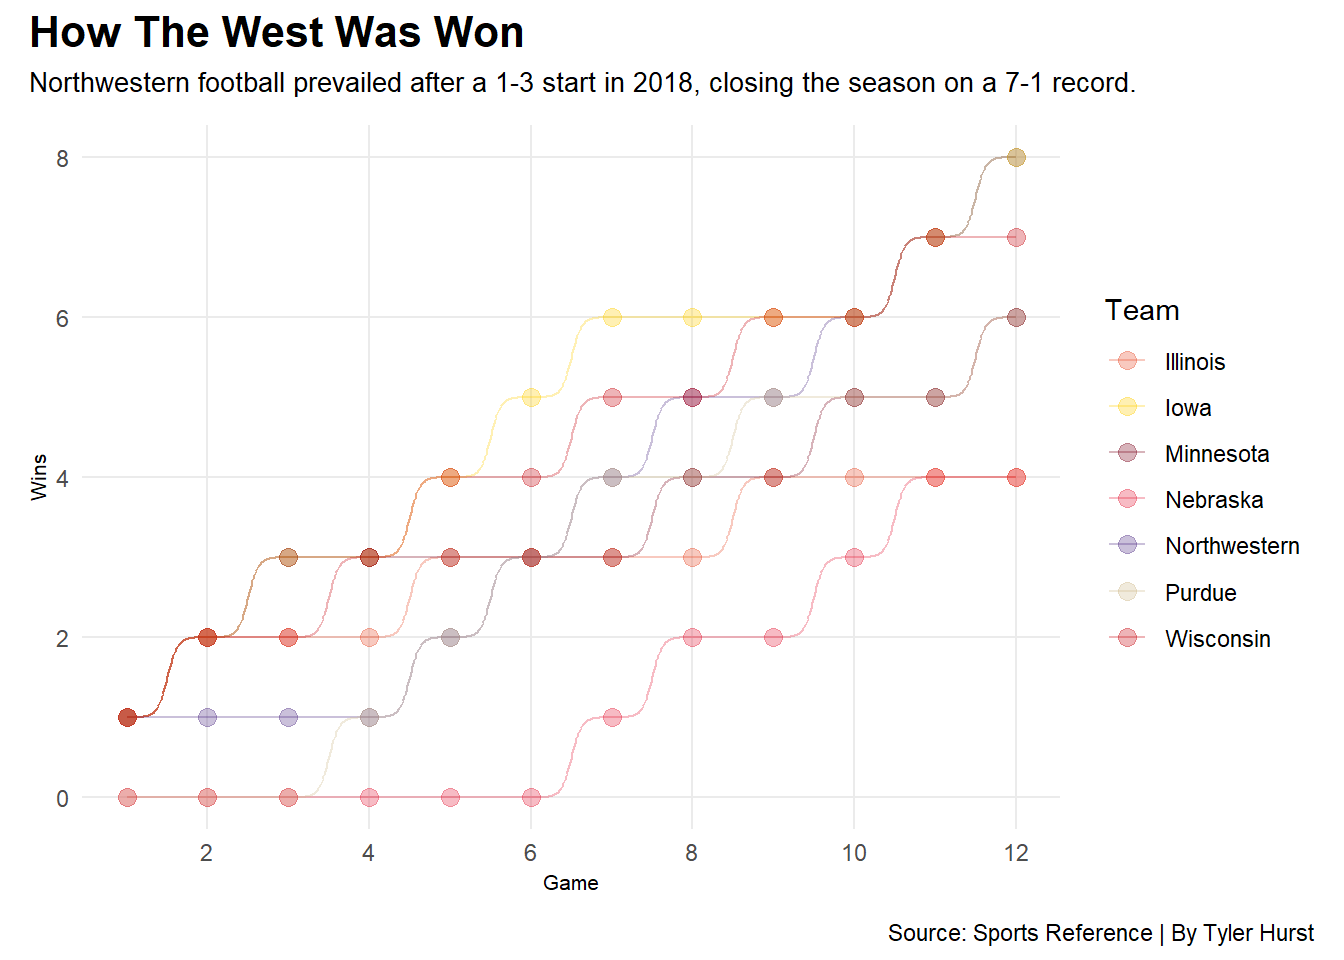
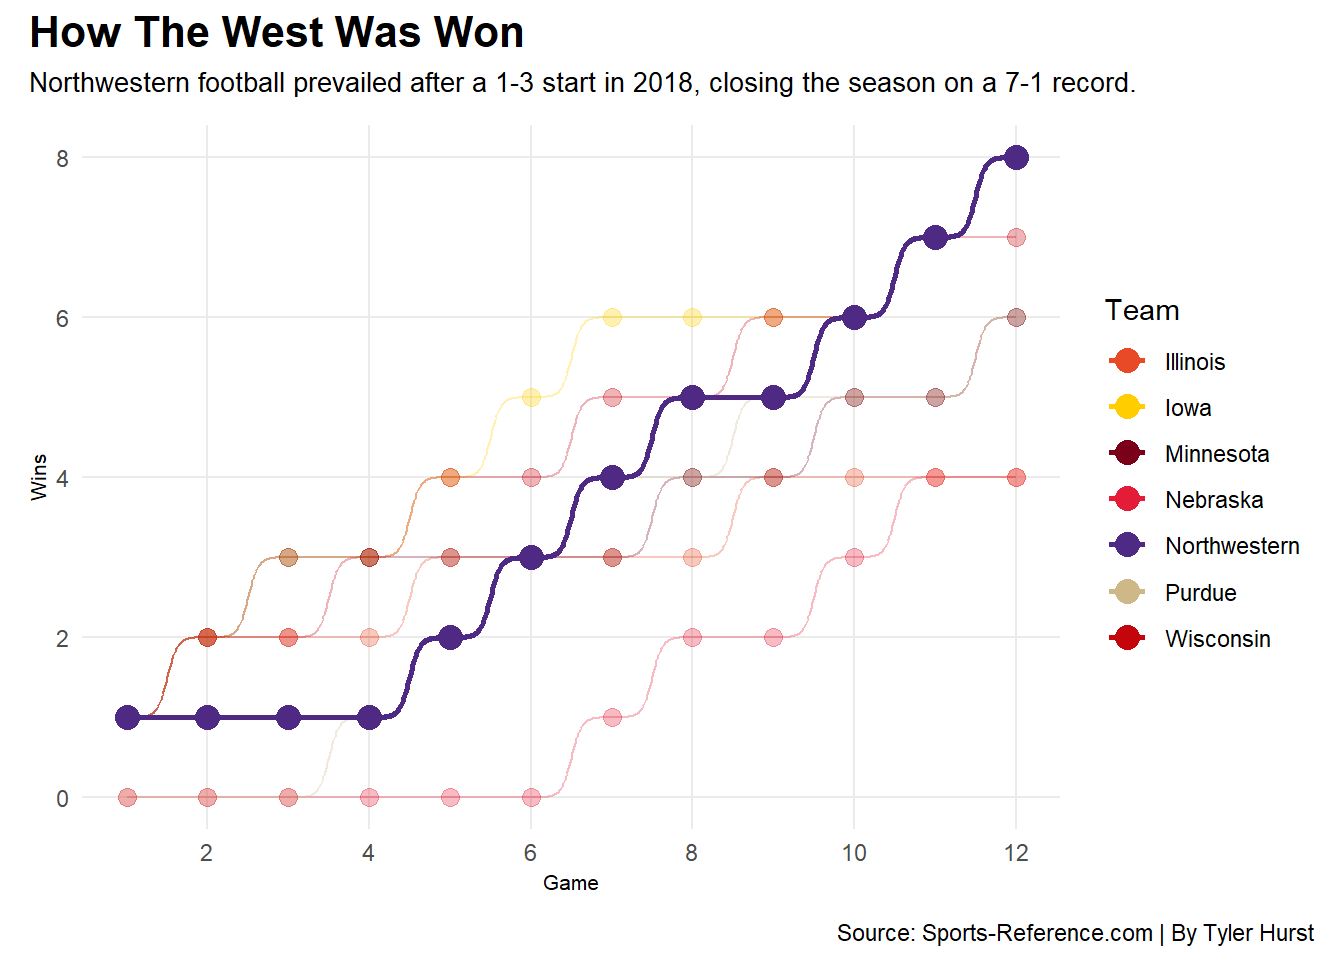
Project one draft two

diff --git a/posts/how-northwestern-won-the-2018-big-ten-west/index.html b/posts/how-northwestern-won-the-2018-big-ten-west/index.html
@@ -197,21 +197,23 @@ pre > code.sourceCode > span > a:first-child::before { text-decoration: underlin
 <span id="cb1-14"><a href="#cb1-14" aria-hidden="true" tabindex="-1"></a></span>
 <span id="cb1-15"><a href="#cb1-15" aria-hidden="true" tabindex="-1"></a><span class="fu">ggplot</span>() <span class="sc">+</span> </span>
 <span id="cb1-16"><a href="#cb1-16" aria-hidden="true" tabindex="-1"></a>  <span class="fu">geom_bump</span>(<span class="at">data=</span>BigTenWest18v2, <span class="fu">aes</span>(<span class="at">x=</span>Game, <span class="at">y=</span>Wins, <span class="at">color=</span>Team), <span class="at">alpha=</span>.<span class="dv">3</span>) <span class="sc">+</span></span>
-<span id="cb1-17"><a href="#cb1-17" aria-hidden="true" tabindex="-1"></a>  <span class="fu">geom_point</span>(<span class="at">data=</span>BigTenWest18v2, <span class="fu">aes</span>(<span class="at">x=</span>Game, <span class="at">y=</span>Wins, <span class="at">color=</span>Team), <span class="at">size =</span> <span class="dv">3</span>, <span class="at">alpha=</span>.<span class="dv">3</span>) <span class="sc">+</span> </span>
-<span id="cb1-18"><a href="#cb1-18" aria-hidden="true" tabindex="-1"></a> <span class="fu">scale_color_manual</span>(<span class="at">values =</span> <span class="fu">c</span>(<span class="st">"#E84A27"</span>, <span class="st">"#FFCD00"</span>, <span class="st">"#7A0019"</span>, <span class="st">"#E41C38"</span>, <span class="st">"#4E2A84"</span>, <span class="st">"#CEB888"</span>, <span class="st">"#C5050C"</span>)) <span class="sc">+</span></span>
-<span id="cb1-19"><a href="#cb1-19" aria-hidden="true" tabindex="-1"></a>  <span class="fu">scale_x_continuous</span>(<span class="at">breaks =</span> <span class="fu">c</span>(<span class="dv">2</span>,<span class="dv">4</span>,<span class="dv">6</span>,<span class="dv">8</span>,<span class="dv">10</span>,<span class="dv">12</span>)) <span class="sc">+</span></span>
-<span id="cb1-20"><a href="#cb1-20" aria-hidden="true" tabindex="-1"></a>  <span class="fu">theme_minimal</span>() <span class="sc">+</span></span>
-<span id="cb1-21"><a href="#cb1-21" aria-hidden="true" tabindex="-1"></a>  <span class="fu">plot_annotation</span>(</span>
-<span id="cb1-22"><a href="#cb1-22" aria-hidden="true" tabindex="-1"></a>    <span class="at">title =</span> <span class="st">"How The West Was Won"</span>,</span>
-<span id="cb1-23"><a href="#cb1-23" aria-hidden="true" tabindex="-1"></a>    <span class="at">subtitle =</span> <span class="st">"Northwestern football prevailed after a 1-3 start in 2018, closing the season on a 7-1 record."</span>,</span>
-<span id="cb1-24"><a href="#cb1-24" aria-hidden="true" tabindex="-1"></a>    <span class="at">caption =</span> <span class="st">"Source: Sports Reference | By Tyler Hurst"</span></span>
-<span id="cb1-25"><a href="#cb1-25" aria-hidden="true" tabindex="-1"></a>  ) <span class="sc">&amp;</span> </span>
-<span id="cb1-26"><a href="#cb1-26" aria-hidden="true" tabindex="-1"></a>  <span class="fu">theme</span>(</span>
-<span id="cb1-27"><a href="#cb1-27" aria-hidden="true" tabindex="-1"></a>    <span class="at">plot.title =</span> <span class="fu">element_text</span>(<span class="at">size =</span> <span class="dv">16</span>, <span class="at">face =</span> <span class="st">"bold"</span>),</span>
-<span id="cb1-28"><a href="#cb1-28" aria-hidden="true" tabindex="-1"></a>    <span class="at">axis.title =</span> <span class="fu">element_text</span>(<span class="at">size =</span> <span class="dv">8</span>), </span>
-<span id="cb1-29"><a href="#cb1-29" aria-hidden="true" tabindex="-1"></a>    <span class="at">plot.subtitle =</span> <span class="fu">element_text</span>(<span class="at">size=</span><span class="dv">10</span>), </span>
-<span id="cb1-30"><a href="#cb1-30" aria-hidden="true" tabindex="-1"></a>    <span class="at">panel.grid.minor =</span> <span class="fu">element_blank</span>()</span>
-<span id="cb1-31"><a href="#cb1-31" aria-hidden="true" tabindex="-1"></a>  )</span></code><button title="Copy to Clipboard" class="code-copy-button"><i class="bi"></i></button></pre></div>
+<span id="cb1-17"><a href="#cb1-17" aria-hidden="true" tabindex="-1"></a>  <span class="fu">geom_point</span>(<span class="at">data=</span>BigTenWest18v2, <span class="fu">aes</span>(<span class="at">x=</span>Game, <span class="at">y=</span>Wins, <span class="at">color=</span>Team), <span class="at">size =</span> <span class="dv">3</span>, <span class="at">alpha=</span>.<span class="dv">3</span>) <span class="sc">+</span></span>
+<span id="cb1-18"><a href="#cb1-18" aria-hidden="true" tabindex="-1"></a>  <span class="fu">geom_point</span>(<span class="at">data=</span>northwestern_data, <span class="fu">aes</span>(<span class="at">x=</span>Game, <span class="at">y=</span>Wins, <span class="at">color=</span>Team), <span class="at">size =</span> <span class="dv">4</span>) <span class="sc">+</span></span>
+<span id="cb1-19"><a href="#cb1-19" aria-hidden="true" tabindex="-1"></a>  <span class="fu">geom_bump</span>(<span class="at">data=</span>northwestern_data, <span class="fu">aes</span>(<span class="at">x=</span>Game, <span class="at">y=</span>Wins, <span class="at">color=</span>Team), <span class="at">size =</span> <span class="dv">1</span>) <span class="sc">+</span></span>
+<span id="cb1-20"><a href="#cb1-20" aria-hidden="true" tabindex="-1"></a> <span class="fu">scale_color_manual</span>(<span class="at">values =</span> <span class="fu">c</span>(<span class="st">"#E84A27"</span>, <span class="st">"#FFCD00"</span>, <span class="st">"#7A0019"</span>, <span class="st">"#E41C38"</span>, <span class="st">"#4E2A84"</span>, <span class="st">"#CEB888"</span>, <span class="st">"#C5050C"</span>)) <span class="sc">+</span></span>
+<span id="cb1-21"><a href="#cb1-21" aria-hidden="true" tabindex="-1"></a>  <span class="fu">scale_x_continuous</span>(<span class="at">breaks =</span> <span class="fu">c</span>(<span class="dv">2</span>,<span class="dv">4</span>,<span class="dv">6</span>,<span class="dv">8</span>,<span class="dv">10</span>,<span class="dv">12</span>)) <span class="sc">+</span></span>
+<span id="cb1-22"><a href="#cb1-22" aria-hidden="true" tabindex="-1"></a>  <span class="fu">theme_minimal</span>() <span class="sc">+</span></span>
+<span id="cb1-23"><a href="#cb1-23" aria-hidden="true" tabindex="-1"></a>  <span class="fu">plot_annotation</span>(</span>
+<span id="cb1-24"><a href="#cb1-24" aria-hidden="true" tabindex="-1"></a>    <span class="at">title =</span> <span class="st">"How The West Was Won"</span>,</span>
+<span id="cb1-25"><a href="#cb1-25" aria-hidden="true" tabindex="-1"></a>    <span class="at">subtitle =</span> <span class="st">"Northwestern football prevailed after a 1-3 start in 2018, closing the season on a 7-1 record."</span>,</span>
+<span id="cb1-26"><a href="#cb1-26" aria-hidden="true" tabindex="-1"></a>    <span class="at">caption =</span> <span class="st">"Source: Sports-Reference.com | By Tyler Hurst"</span></span>
+<span id="cb1-27"><a href="#cb1-27" aria-hidden="true" tabindex="-1"></a>  ) <span class="sc">&amp;</span> </span>
+<span id="cb1-28"><a href="#cb1-28" aria-hidden="true" tabindex="-1"></a>  <span class="fu">theme</span>(</span>
+<span id="cb1-29"><a href="#cb1-29" aria-hidden="true" tabindex="-1"></a>    <span class="at">plot.title =</span> <span class="fu">element_text</span>(<span class="at">size =</span> <span class="dv">16</span>, <span class="at">face =</span> <span class="st">"bold"</span>),</span>
+<span id="cb1-30"><a href="#cb1-30" aria-hidden="true" tabindex="-1"></a>    <span class="at">axis.title =</span> <span class="fu">element_text</span>(<span class="at">size =</span> <span class="dv">8</span>), </span>
+<span id="cb1-31"><a href="#cb1-31" aria-hidden="true" tabindex="-1"></a>    <span class="at">plot.subtitle =</span> <span class="fu">element_text</span>(<span class="at">size=</span><span class="dv">10</span>), </span>
+<span id="cb1-32"><a href="#cb1-32" aria-hidden="true" tabindex="-1"></a>    <span class="at">panel.grid.minor =</span> <span class="fu">element_blank</span>()</span>
+<span id="cb1-33"><a href="#cb1-33" aria-hidden="true" tabindex="-1"></a>  )</span></code><button title="Copy to Clipboard" class="code-copy-button"><i class="bi"></i></button></pre></div>
 </details>
 <div class="cell-output-display">
 <p><img src="index_files/figure-html/unnamed-chunk-1-1.png" class="img-fluid" width="672"></p>

diff --git a/index.html b/index.html
@@ -152,7 +152,7 @@ ul.task-list li input[type="checkbox"] {
 <!-- margin-sidebar -->
     <div id="quarto-margin-sidebar" class="sidebar margin-sidebar">
         
-    <h5 class="quarto-listing-category-title">Categories</h5><div class="quarto-listing-category category-default"><div class="category" data-category="">All <span class="quarto-category-count">(2)</span></div><div class="category" data-category="code">code <span class="quarto-category-count">(1)</span></div><div class="category" data-category="data">data <span class="quarto-category-count">(1)</span></div><div class="category" data-category="lowercaseword">lowercaseword <span class="quarto-category-count">(3)</span></div><div class="category" data-category="sports">sports <span class="quarto-category-count">(1)</span></div></div></div>
+    <h5 class="quarto-listing-category-title">Categories</h5><div class="quarto-listing-category category-default"><div class="category" data-category="">All <span class="quarto-category-count">(2)</span></div><div class="category" data-category="big ten">big ten <span class="quarto-category-count">(1)</span></div><div class="category" data-category="code">code <span class="quarto-category-count">(1)</span></div><div class="category" data-category="collegefootball">collegefootball <span class="quarto-category-count">(1)</span></div><div class="category" data-category="data">data <span class="quarto-category-count">(1)</span></div><div class="category" data-category="northwestern">northwestern <span class="quarto-category-count">(1)</span></div><div class="category" data-category="sports">sports <span class="quarto-category-count">(1)</span></div></div></div>
 <!-- main -->
 <main class="content quarto-banner-title-block column-page-left" id="quarto-document-content">
 
@@ -165,7 +165,7 @@ ul.task-list li input[type="checkbox"] {
 
 <div class="quarto-listing quarto-listing-container-default" id="listing-listing">
 <div class="list quarto-listing-default">
-<div class="quarto-post image-right" data-index="0" data-categories="lowercaseword,lowercaseword,lowercaseword" data-listing-date-sort="1699768800000" data-listing-file-modified-sort="1699843926262" data-listing-date-modified-sort="NaN" data-listing-reading-time-sort="4">
+<div class="quarto-post image-right" data-index="0" data-categories="collegefootball,northwestern,big ten" data-listing-date-sort="1699768800000" data-listing-file-modified-sort="1699846070831" data-listing-date-modified-sort="NaN" data-listing-reading-time-sort="4">
 <div class="thumbnail">
 <p><a href="./posts/how-northwestern-won-the-2018-big-ten-west/index.html"> <img src="./posts/how-northwestern-won-the-2018-big-ten-west/image.png" class="thumbnail-image"> </a></p>
 </div>
@@ -179,14 +179,14 @@ How Northwestern Won the 2018 Big Ten West
 </div>
 </a>
 <div class="listing-categories">
-<div class="listing-category" onclick="window.quartoListingCategory('lowercaseword'); return false;">
-lowercaseword
+<div class="listing-category" onclick="window.quartoListingCategory('collegefootball'); return false;">
+collegefootball
 </div>
-<div class="listing-category" onclick="window.quartoListingCategory('lowercaseword'); return false;">
-lowercaseword
+<div class="listing-category" onclick="window.quartoListingCategory('northwestern'); return false;">
+northwestern
 </div>
-<div class="listing-category" onclick="window.quartoListingCategory('lowercaseword'); return false;">
-lowercaseword
+<div class="listing-category" onclick="window.quartoListingCategory('big ten'); return false;">
+big ten
 </div>
 </div>
 <a href="./posts/how-northwestern-won-the-2018-big-ten-west/index.html">

diff --git a/about.html b/about.html
@@ -112,7 +112,7 @@ ul.task-list li input[type="checkbox"] {
 <div class="quarto-title-meta">
   </div>
 </header><main class="content" id="quarto-document-content">
-<p>Hello my name is Tyler. I’ll add more here later. I promise.</p>
+<p>Hello my name is Tyler. I am a junior advertising and public relations, sports media and communication major in the College of Journalism and Mass Communications at the University of Nebraska-Lincoln. On campus, I serve as an ambassador and front desk representative for CoJMC and work under the Creative Media department for football.</p>
 
 
 </main> 
